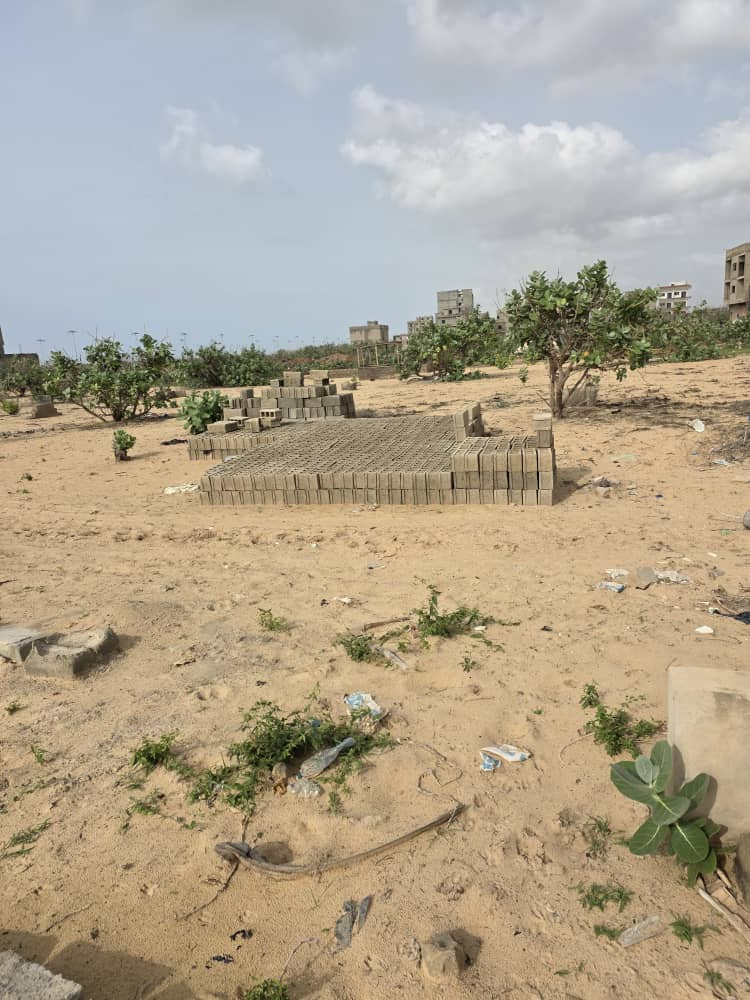
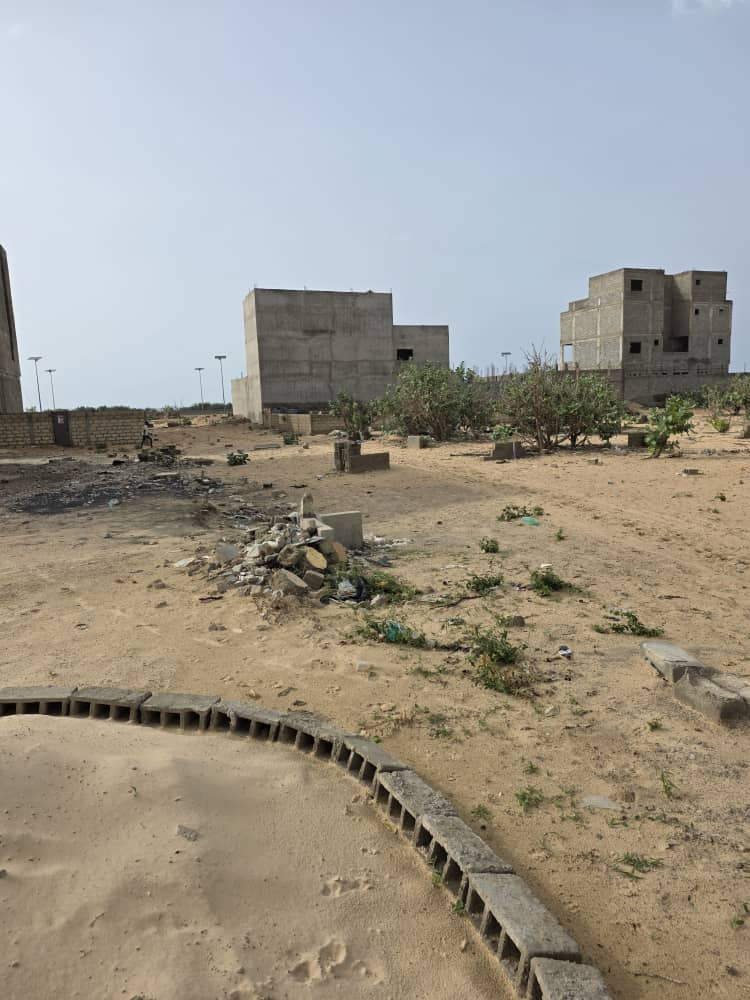
fix: photo attribuée au mauvais terrain de Gadaye
La photo du terrain à 45 M (3è position) était affichée sur celui à
50 M (1ère position). Elle est déplacée vers la bonne annonce et les
photos restantes de la 1ère position sont renumérotées.

diff --git a/src/lib/data/properties.ts b/src/lib/data/properties.ts
@@ -46,7 +46,6 @@ export const PROPERTIES: Property[] = [
     photos: [
       "/biens/terrain-gadaye-1ere-position/photo-01.jpg",
       "/biens/terrain-gadaye-1ere-position/photo-02.jpg",
-      "/biens/terrain-gadaye-1ere-position/photo-03.jpg",
     ],
   },
   {
@@ -63,7 +62,7 @@ export const PROPERTIES: Property[] = [
     description:
       "Terrain de 150 m² situé au rond-point Gadaye, face à la VDN et face à la mer, en 3è position.",
     features: ["Face à la VDN", "Face à la mer", "3è position", "150 m²"],
-    photos: [],
+    photos: ["/biens/terrain-gadaye-3eme-position/photo-01.jpg"],
   },
   {
     slug: "terrain-kounoune-2-manian-seck",
